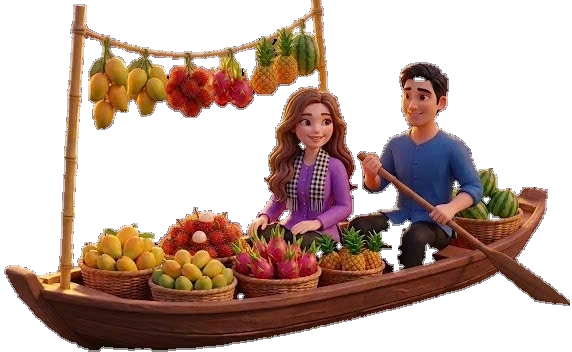
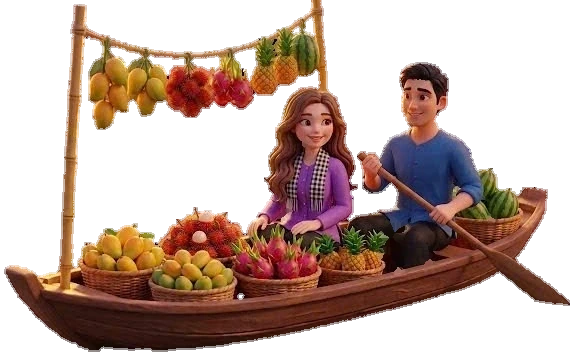
Trang chủ: tách nền lại ảnh Hương và Tú trên ghe (hero)
- Tách nền lại huong-tu-ghe-chonoi-v2.webp: giữ đèn cây, giỏ trái cây và
  mái chèo; lấp các lỗ trong suốt nằm giữa chân người và thân ghe, và làm
  sạch viền bán trong suốt (bỏ viền tối đốm quanh tóc, áo).
- Bump cache sw.js (bizon-v461) để trình duyệt tải ảnh mới.

diff --git a/sw.js b/sw.js
@@ -1,7 +1,7 @@
 /* BizOn Bật Nghiệp 2026 – Service Worker (offline app shell)
  * © 2026 Đỗ Thùy Hương & Phan Anh Tú. Bảo lưu mọi quyền. */
 
-const CACHE = 'bizon-v460';
+const CACHE = 'bizon-v461';
 const SHELL = [
   './',
   './index.html',
